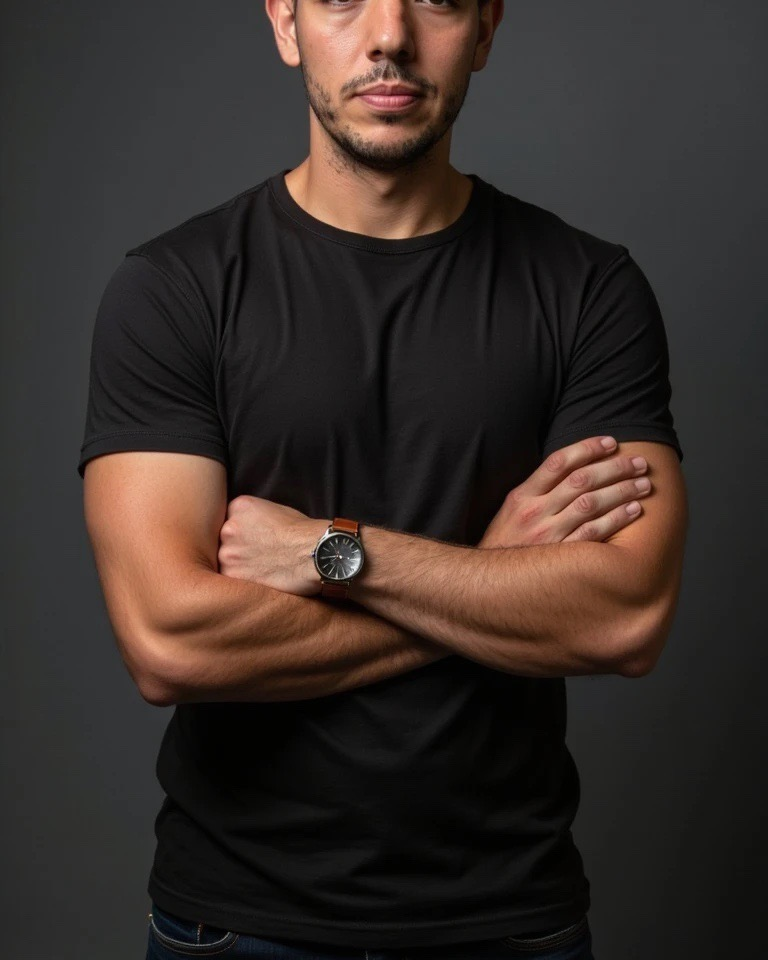
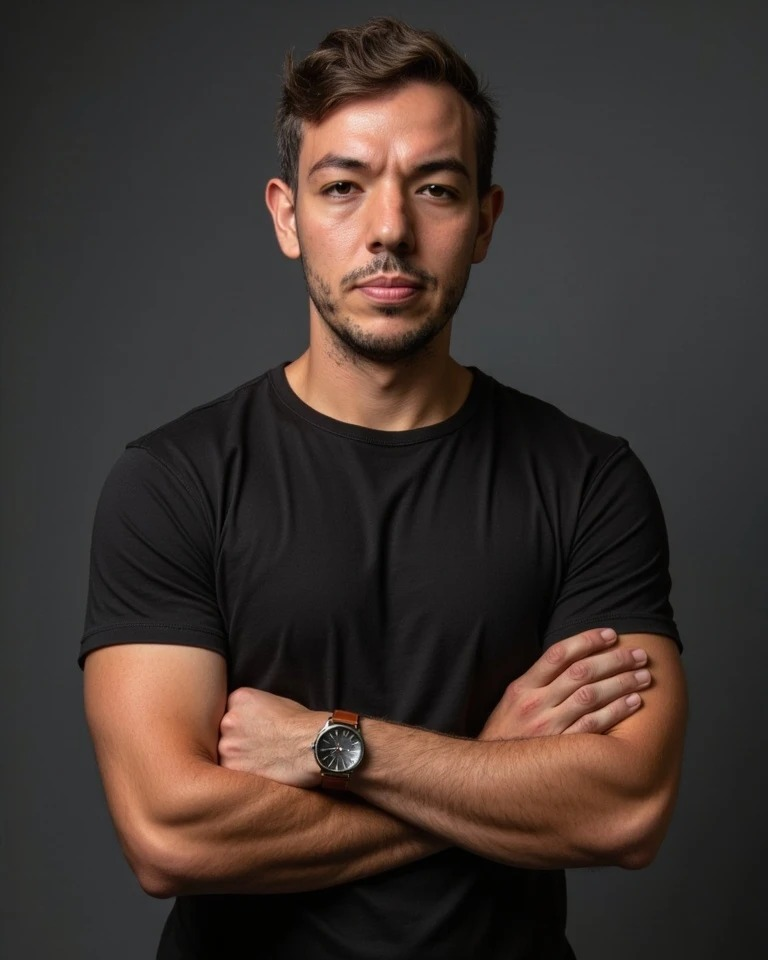
Recorta a foto provisória do topo, com a cabeça inteira
O sips ignorava o deslocamento e recortava sempre pelo centro, o que
decepava a testa. Refeito com recorte exato, ancorado no topo.

Provisório até a foto de 1600x2000 chegar. O componente não muda: a
janela continua 4:5 e a imagem nova entra no lugar do arquivo.

diff --git a/css/styles.css b/css/styles.css
@@ -515,7 +515,7 @@ ul, ol { margin: 0; padding: 0; list-style: none; }
   width: 100%;
   height: 100%;
   object-fit: cover;
-  object-position: 50% 18%;     /* rosto no terço superior */
+  object-position: 50% 15%;     /* rosto no terço superior quando a foto for mais alta que 4:5 */
   filter: saturate(0.95) contrast(1.03);
 }
 
